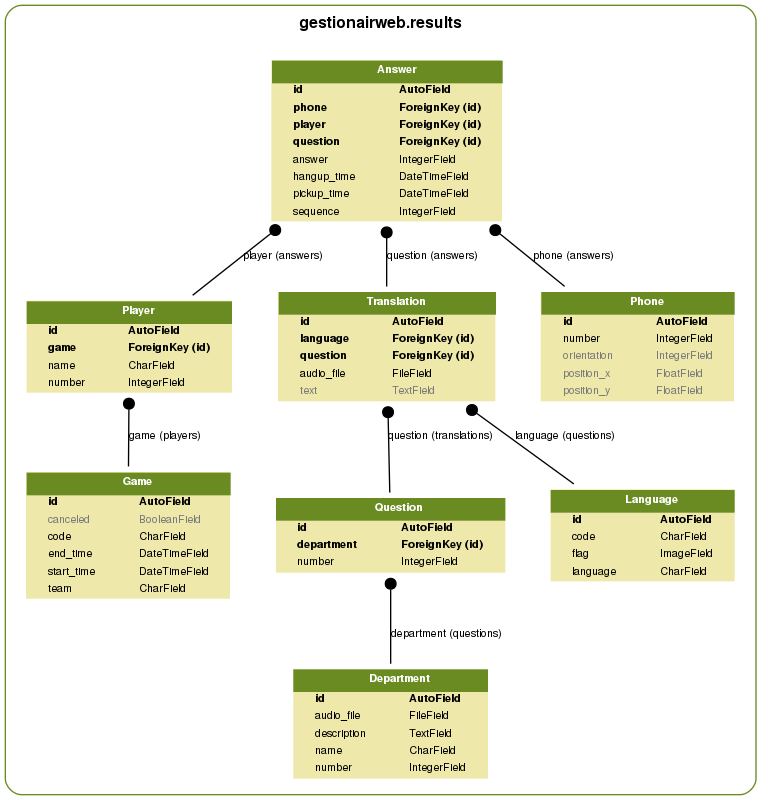
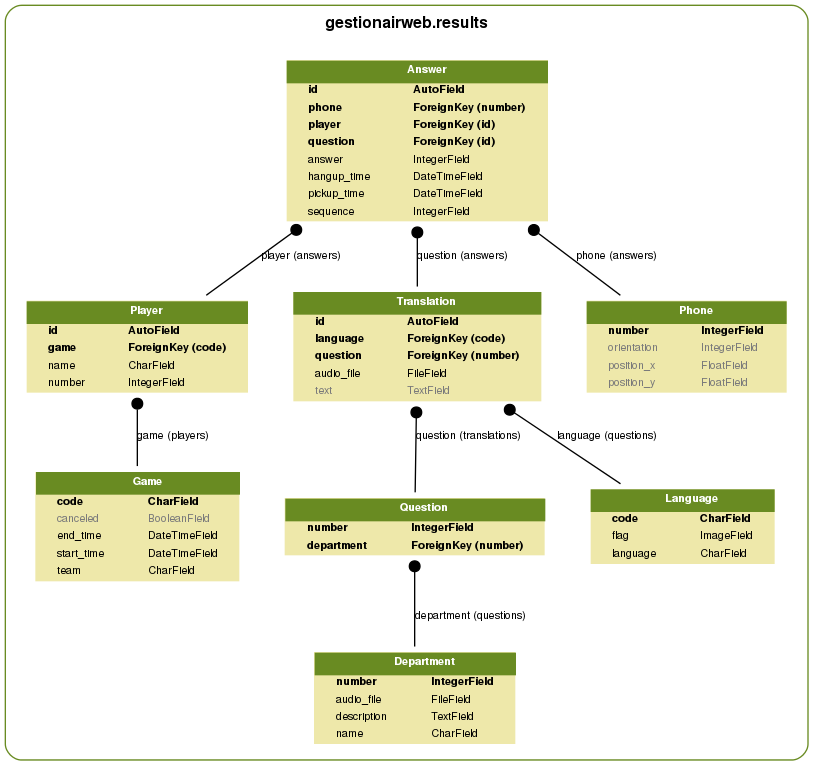
Moved primary keys to unique fields

Changed region(s): [[0.0302, 0.0, 0.9974, 1.0], [0.9671, 0.9621, 0.9974, 0.9922], [0.0, 0.9621, 0.0302, 0.9922]]

diff --git a/gestionairweb/results/models.py b/gestionairweb/results/models.py
@@ -34,7 +34,7 @@ from django.utils.translation import ugettext_lazy as _
 # TODO: Should we internationalize the models?
 
 class Game(models.Model):
-    code = models.CharField(verbose_name=_("code"), max_length=15, unique=True,
+    code = models.CharField(verbose_name=_("code"), max_length=15, unique=True, primary_key=True,
                             help_text=_("The identification code of the game"))
     team = models.CharField(verbose_name=_("team"), max_length=100,
                             help_text=_("The name of the team (this field is not unique!)"))
@@ -75,7 +75,7 @@ class Answer(models.Model):
 
 
 class Question(models.Model):
-    number = models.IntegerField(verbose_name=_("question number"), unique=True,
+    number = models.IntegerField(verbose_name=_("question number"), unique=True, primary_key=True,
                                  help_text=_("The number of the question"))
     # Foreign keys
     department = models.ForeignKey('Department', verbose_name=_('department'), related_name=_('questions'),
@@ -96,7 +96,7 @@ class Translation(models.Model):
 
 class Language(models.Model):
     # TODO: Should we translate the names of the languages in DE and EN?
-    code = models.CharField(verbose_name=_("language code"), max_length=2, unique=True,
+    code = models.CharField(verbose_name=_("language code"), max_length=2, unique=True, primary_key=True,
                             help_text=_("The ISO 3166-1 code of the language"))
     language = models.CharField(verbose_name=_("language name"), max_length=100,
                                 help_text=_("The french name of the language"))
@@ -106,7 +106,7 @@ class Language(models.Model):
 
 class Department(models.Model):
     # TODO: We also have the description in DE and EN!
-    number = models.IntegerField(verbose_name=_("department number"), unique=True,
+    number = models.IntegerField(verbose_name=_("department number"), unique=True, primary_key=True,
                                  help_text=_("The number of the department"))
     name = models.CharField(verbose_name=_("department"), max_length=50,
                             help_text=_("The name of the department"))
@@ -117,7 +117,7 @@ class Department(models.Model):
 
 
 class Phone(models.Model):
-    number = models.IntegerField(verbose_name=_("phone number"),
+    number = models.IntegerField(verbose_name=_("phone number"), primary_key=True,
                                  help_text=_("The call number of the phone"))
     position_x = models.FloatField(verbose_name=_("x position"), null=True, blank=True,
                                    help_text=_("The position on the horizontal axis"))
